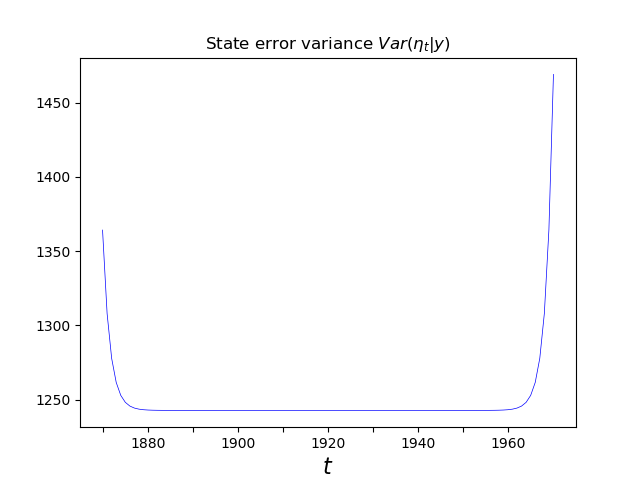
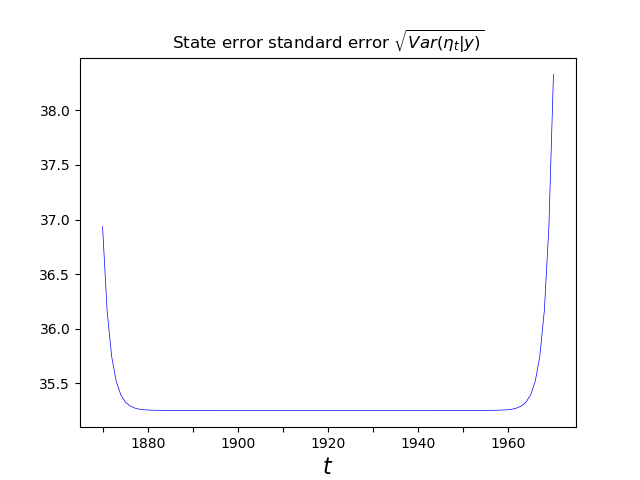
redone 2.3 with standard errors instead of variances

diff --git a/12.py b/12.py
@@ -82,20 +82,20 @@ class Nile:
     def DisturbanceSmoother(self):
         self.mu = np.zeros(self.n)
         self.epshat = np.zeros(self.n)
-        self.varepshatgiveny = np.zeros(self.n)
+        self.stdepshatgiveny = np.zeros(self.n)
         self.D = np.zeros(self.n)
         self.etahat = np.zeros(self.n)
-        self.varetagiveny = np.zeros(self.n)
+        self.stdetagiveny = np.zeros(self.n)
 
         for t in range(self.n):
             self.mu[t] = self.v[t]/self.f[t] - self.k[t] * self.r[t]
             self.epshat[t] = self.vareps * self.mu[t]
 
             self.D[t] = 1/self.f[t] + (self.k[t]**2) * self.N[t]
-            self.varepshatgiveny[t] = self.vareps - (self.vareps**2) * self.D[t]
+            self.stdepshatgiveny[t] = np.sqrt(self.vareps - (self.vareps**2) * self.D[t])
 
             self.etahat[t] = self.vareta * self.r[t]
-            self.varetagiveny[t] = self.vareta - (self.vareta**2) * self.N[t]
+            self.stdetagiveny[t] = np.sqrt(self.vareta - (self.vareta**2) * self.N[t])
 
     def fig1(self):
         """ 2.1.i """
@@ -201,10 +201,10 @@ class Nile:
 
         """ 2.3.ii """
         plt.figure()
-        plt.plot(self.x, self.varepshatgiveny, color="blue", linewidth=0.5)
+        plt.plot(self.x, self.stdepshatgiveny, color="blue", linewidth=0.5)
         plt.xticks(np.arange(10), self.xYears)
         plt.xlabel(r'$t$',fontsize=16)
-        plt.title('Observation error variance ' + r'$Var(\epsilon_t | y)$',fontsize=12)
+        plt.title('Observation error standard error ' + r'$\sqrt{Var(\epsilon_t | y)}$',fontsize=12)
         plt.draw()
 
         """ 2.3.iii """
@@ -218,10 +218,10 @@ class Nile:
 
         """ 2.3.iv """
         plt.figure()
-        plt.plot(self.x, self.varetagiveny, color="blue", linewidth=0.5)
+        plt.plot(self.x, self.stdetagiveny, color="blue", linewidth=0.5)
         plt.xticks(np.arange(10), self.xYears)
         plt.xlabel(r'$t$',fontsize=16)
-        plt.title('State error variance ' + r'$Var(\eta_t | y)$',fontsize=12)
+        plt.title('State error standard error ' + r'$\sqrt{Var(\eta_t | y)}$',fontsize=12)
         plt.draw()
 
 def main():
